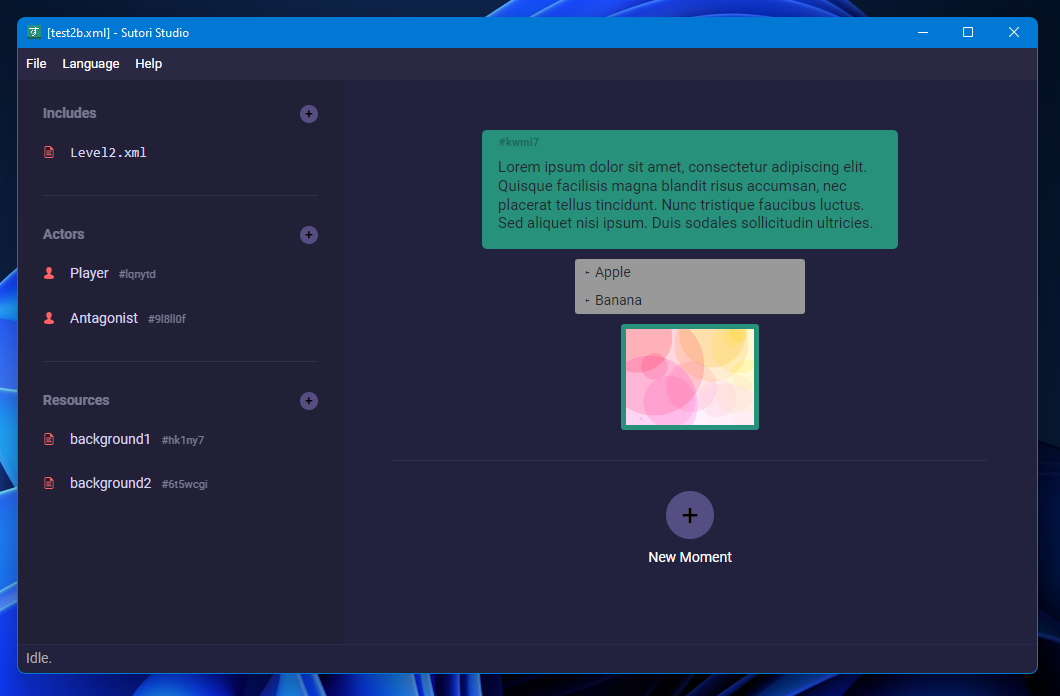
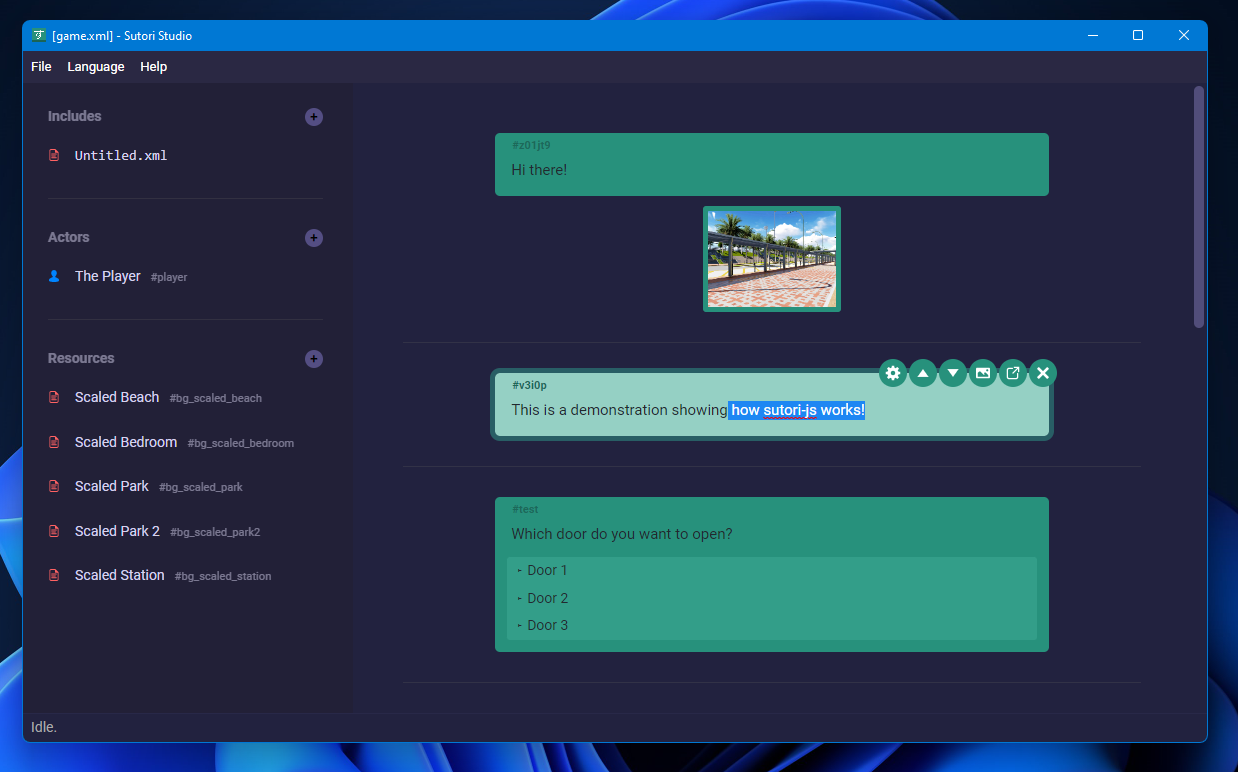
Fixed load error, enabled re-order of moments, udpated css.

diff --git a/resources/css/moment-flow.css b/resources/css/moment-flow.css
@@ -46,8 +46,9 @@
 }
 
 .moment:focus-within, .moment:focus {
-	outline: 5px solid var(--moment-bg-light-focus);
+	outline: 5px solid var(--moment-bg-light-focus-border);
 	transition: 100ms outline;
+	background: var(--moment-bg-light-focus)!important;
 }
 
 .moment-add-button {
@@ -157,7 +158,7 @@
 }
 
 .moment-body:focus {
-	background: #ffffff38;
+	/* background: #ffffff38; */
 	outline: 0;
 }
 
@@ -198,7 +199,7 @@
 .moment-media .moment-image .buttons { display:none; }
 
 .moment-media .moment-image:focus {
-	outline: 5px solid var(--moment-bg-light-focus);
+	outline: 5px solid var(--moment-bg-light-focus-border);
 	transition: 100ms outline;
 }
 
@@ -233,12 +234,16 @@
 }
 
 .moment-options .moment-option {
-	background-color: #999;
+	background-color: hsl(168deg 51% 41%);
 	padding: 5px 10px;
 	min-width: 230px;
 	outline: 0 solid transparent;
 	transition: 1200ms outline;
 	display: flex;
+}
+.moment:focus .moment-options .moment-option,
+.moment:focus-within .moment-options .moment-option {
+	background-color: hsl(168deg 51% 72%)!important;
 }
 .moment-options .moment-option:first-of-type { border-radius: 3px 3px 0 0; }
 .moment-options .moment-option:last-of-type { border-bottom-left-radius: 3px; border-bottom-right-radius: 3px; }
@@ -257,9 +262,10 @@
 .moment-options .moment-option .buttons a svg { fill: white; }
 .moment-options .moment-option .buttons a:hover { opacity: 0.6; cursor: pointer; }
 
-.moment-options .moment-option:focus-within {
+.moment:focus .moment-options .moment-option:focus-within,
+.moment:focus-within .moment-options .moment-option:focus-within {
 	/* outline: 5px solid var(--moment-bg-light-focus); */
-	background-color: #bbb;
+	background-color: #ffffff85!important;
 	transition: 100ms background-color;
 }
 .moment-options .moment-option:focus-within div[contenteditable] { outline:0; }

diff --git a/resources/ts/MomentFlow.ts b/resources/ts/MomentFlow.ts
@@ -36,10 +36,10 @@ class MomentFlow {
 						<a class="moment-button" onclick="App.Dialogs.ShowMomentDialog(this);" title="Moment Properties">
 							<svg width="16" height="16"><use xlink:href="#cog"/></svg>
 						</a>
-						<a class="moment-button" onclick="alert('move up');" title="Move Up">
+						<a class="moment-button" onclick="App.Moments.MoveRow(this, -1);" title="Move Up">
 							<svg width="16" height="16"><use xlink:href="#arrow-up"/></svg>
 						</a>
-						<a class="moment-button" onclick="alert('move down');" title="Move Down">
+						<a class="moment-button" onclick="App.Moments.MoveRow(this, 1);" title="Move Down">
 							<svg width="16" height="16"><use xlink:href="#arrow-down"/></svg>
 						</a>
 						<a class="moment-button" onclick="App.Moments.HandleAddImage(this);" title="Add Image">
@@ -77,6 +77,35 @@ class MomentFlow {
 		}
 
 		return this.MainElement.querySelector('.moment-row:last-of-type');
+	}
+
+
+	/**
+	 * 
+	 * @param button 
+	 * @param offset 
+	 * @returns 
+	 */
+	public MoveRow(button: HTMLElement, offset: number) {
+		var self = this;
+		var rowElement = button.closest('.moment-row');
+		var rowIndex = Array.prototype.indexOf.call(self.MainElement.childNodes, rowElement);
+
+		var arr = App.Document.Moments;
+		var element = arr[rowIndex];
+		var nextIndex = rowIndex + offset;
+		var maxIndex = arr.length - 1;
+
+		// don't move if we are at the beginning or end.
+		if (nextIndex < 0 || nextIndex > maxIndex) return;
+
+		// move the moment.
+		arr.splice(rowIndex, 1);
+		arr.splice(rowIndex + offset, 0, element);
+
+		// move the element.
+		if (offset == -1) rowElement.parentNode.insertBefore(rowElement, rowElement.previousSibling);
+		if (offset == 1) rowElement.parentNode.insertBefore(rowElement.nextSibling, rowElement);
 	}
 
 

diff --git a/resources/js/main.js b/resources/js/main.js
@@ -1,31 +1,22 @@
-// initial window pos
-document.addEventListener("DOMContentLoaded", async function() {
-    var webMode = true;
+var webMode = false;
+if (typeof Neutralino !== 'undefined') {
+    Neutralino.init();
 
-    // Neutralino initialization.
-    if (typeof Neutralino !== 'undefined') {
-        try {
-            // initialize neutralino
-            Neutralino.init();
+    Neutralino.events.on('ready', async function() {
+        // initialize the sutori studio app.
+        console.log('web-mode', webMode);
+        SutoriBuilderApp.init(webMode);
 
-            // handle window closing.
-            Neutralino.events.on("windowClose", function() {
-                Neutralino.app.exit();
-            });
+        // center the screen.
+        const w_size = await Neutralino.window.getSize();
+        const x = (window.screen.width / 2) - (w_size.width / 2);
+        const y = (window.screen.height / 2) - (w_size.height / 2);
+        Neutralino.window.move(x, y);
+        webMode = false;
+    });
 
-            // center the screen.
-            const w_size = await Neutralino.window.getSize();
-            const x = (window.screen.width / 2) - (w_size.width / 2);
-            const y = (window.screen.height / 2) - (w_size.height / 2);
-            Neutralino.window.move(x, y);
-            webMode = false;
-        }
-        catch (error) {
-            console.log('Error whilst loading neutralino', error);
-        }
-    }
-
-    // initialize the sutori studio app.
-    console.log('web-mode', webMode);
-    SutoriBuilderApp.init(webMode); 
-});
+    // handle window closing.
+    Neutralino.events.on("windowClose", function() {
+        Neutralino.app.exit();
+    });
+}

diff --git a/resources/css/constants.css b/resources/css/constants.css
@@ -15,7 +15,8 @@
 	--moment-bg-normal: hsl(var(--moment-bg), 36%);
 	--moment-bg-dark: hsl(var(--moment-bg), 26%);
 	--moment-bg-light: hsl(var(--moment-bg), 46%);
-	--moment-bg-light-focus: hsla(var(--moment-bg), 46%, .4);
+	--moment-bg-light-focus-border: hsla(var(--moment-bg), 46%, .4);
+	--moment-bg-light-focus: hsl(168deg 38% 70%);
 
 	--status-bg: hsl(240, 29%, 10%);
 }
